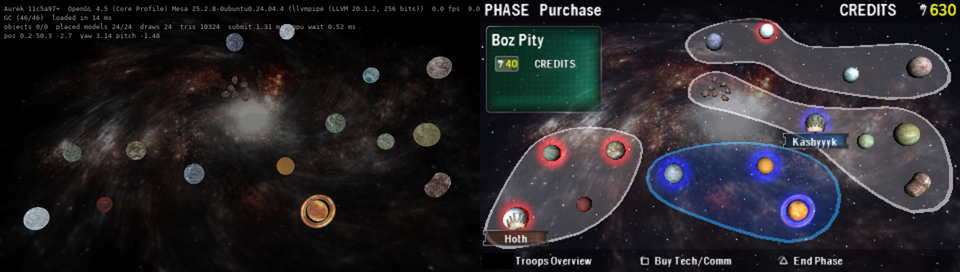
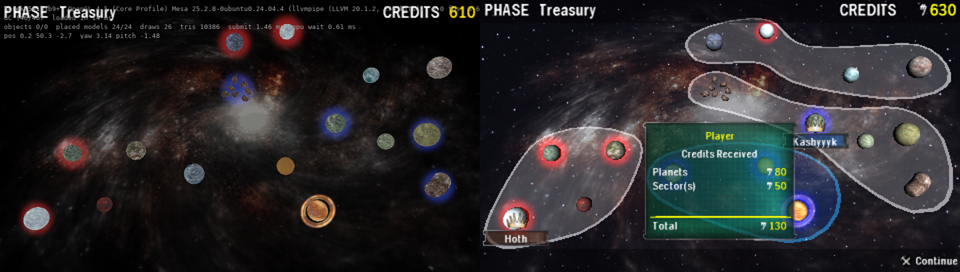
5.4: GC map overlay first slice (app/gc_screen): GC game state on the GC level, owner halos, PHASE / CREDITS header
Claude-Session: https://claude.ai/code/session_012zV5yctaL6vwZjb4yJxb74

diff --git a/engine/app/gc_screen.c b/engine/app/gc_screen.c
@@ -1,0 +1,102 @@
+/* Aurek - the Galactic Conquest map screen (see gc_screen.h; PARITY 5.4) */
+#include "app/gc_screen.h"
+#include "app/hud.h"
+#include "core/ak_settings.h"
+#include <string.h>
+#include <stdlib.h>
+#include <stdio.h>
+
+static ak_arena mem; static bool mem_ok;
+static u16 *gtext[160]; static u32 glen[160], ngtext;
+
+/* TEXT/GALACTICCONQUEST.ASR: PTXT per language - u32 table hash (0x4F008C3A), u32 n, u32 language, "GalacticConquest", then n x
+ * { u32 length with the 0, UTF-16 } (the same layout as CPNAMES) */
+static void load_text(ak_vfs *vfs)
+{
+    ak_blob b; if (ngtext || !ak_vfs_read(vfs, "PSP_GAME/USRDIR/TEXT/GALACTICCONQUEST.ASR", &mem, &b) || !ak_asura_check(&b)) return;
+    u32 pos = 8; ak_chunk c; int lang = ak_setting_int("AK_LANGUAGE", 0);
+    while (ak_asura_next(&b, &pos, &c)) {
+        if (ak_chunk_tag(&c) != AK_TAG('P', 'T', 'X', 'T') || c.size < 16 || (int)ak_rd32(c.body + 8) != lang) continue;
+        u32 n = ak_rd32(c.body + 4), p = 12; p += ((u32)strnlen((const char *)c.body + p, c.size - p) + 1 + 3) & ~3u;
+        for (u32 i = 0; i < n && i < AK_ARRAY_LEN(gtext) && p + 4 <= c.size; i++) {
+            u32 len = ak_rd32(c.body + p); p += 4; if (p + len * 2 > c.size) break;
+            gtext[i] = ak_arena_alloc(&mem, (len + 1) * 2, 2); glen[i] = len ? len - 1 : 0;
+            if (gtext[i]) for (u32 k = 0; k < len; k++) gtext[i][k] = ak_rd16(c.body + p + k * 2);
+            p += len * 2; ngtext = i + 1;
+        }
+        break;
+    }
+}
+const u16 *ak_gc_text(u32 id, u32 *len) { if (id >= ngtext || !gtext[id]) { *len = 0; return NULL; } *len = glen[id]; return gtext[id]; }
+
+bool ak_gc_screen_init(ak_gc_screen *s, ak_vfs *vfs, const ak_level *l, const ak_scene_level *sc, const ak_model_set *ms,
+                       const ak_entity_set *ents, const ak_blueprints *bp, u32 seed)
+{
+    memset(s, 0, sizeof *s);
+    if (!mem_ok) mem_ok = ak_arena_init(&mem, 256u << 10);
+    if (mem_ok) load_text(vfs);
+    ak_gc_rules_load(bp, &s->r);
+    ak_gc_new(&s->g, &s->r, ak_setting_int("AK_GC_FACTION", 4), seed);
+    f32 ast[3] = { 0, 0, 0 }; int nast = 0;
+    for (u32 i = 0; i < ents->n; i++) {
+        const ak_entity *e = &ents->e[i];
+        if (!e->placed || e->model[0] < 0) continue;
+        const char *nm = ms->models[e->model[0]].name;
+        if (!strcmp(nm, "Asteroid_02")) { for (int k = 0; k < 3; k++) ast[k] += e->pos[k]; nast++; continue; }
+        for (int p = 0; p < AK_GC_PLANETS; p++)
+            if (!strcmp(nm, ak_gc_planet_keys[p]) && !s->planet_known[p]) { memcpy(s->planet_pos[p], e->pos, 12); s->planet_known[p] = true; }
+    }
+    if (nast) { for (int k = 0; k < 3; k++) s->planet_pos[0][k] = ast[k] / (f32)nast; s->planet_known[0] = true; }   /* Alderaan */
+    s32 ti = ak_level_find_texture(l, "\\graphics\\GUI\\GC_Elements\\GC_Planet_Corona.bmp");
+    s->corona = NULL;
+    if (ti >= 0 && sc->tex && sc->tex[ti]) {          /* an opaque BMP drawn as a glow: its brightness as alpha, white to take the tint */
+        static u32 pal[256]; const ak_texture *t = &l->tex[ti];
+        for (int i = 0; i < 256; i++) { u32 c = t->palette[i], r = c & 255, g = (c >> 8) & 255, b = (c >> 16) & 255, a = r > g ? (r > b ? r : b) : (g > b ? g : b); pal[i] = 0x00FFFFFFu | (a << 24); }
+        s->corona = ak_gfx_texture_palette(sc->tex[ti], t, pal);
+    }
+    s->ready = true;
+    return true;
+}
+
+static bool project(const ak_m4 *vp, const f32 *p, f32 *x, f32 *y)
+{
+    const f32 *m = vp->m;
+    f32 cx = m[0] * p[0] + m[4] * p[1] + m[8] * p[2] + m[12], cy = m[1] * p[0] + m[5] * p[1] + m[9] * p[2] + m[13];
+    f32 cw = m[3] * p[0] + m[7] * p[1] + m[11] * p[2] + m[15];
+    if (cw <= 0) return false;
+    *x = (cx / cw * 0.5f + 0.5f) * 480.0f; *y = (0.5f - cy / cw * 0.5f) * 272.0f; return true;
+}
+
+void ak_gc_screen_draw_back(const ak_gc_screen *s, const ak_m4 *vp)
+{
+    if (!s->ready) return;
+    ak_hud_2d_begin();
+    /* owner halos: the player's (side 0) blue, the enemy's red, none on neutral planets (the original's screen) [assumed sizes] */
+    for (int p = 0; p < AK_GC_PLANETS; p++) {
+        int o = s->g.planet[p].owner; f32 x, y;
+        if (o == AK_GC_NONE || !s->planet_known[p] || !project(vp, s->planet_pos[p], &x, &y)) continue;
+        f32 r = 20.0f; u32 col = o == 0 ? 0xFF3050FFu : 0xFFFF3030u;
+        if (s->corona) ak_hud_2d_quad(s->corona, x - r, y - r, x + r, y + r, 0, 0, 1, 1, col);
+    }
+    ak_hud_2d_end();
+}
+
+void ak_gc_screen_draw(const ak_gc_screen *s, const ak_m4 *vp)
+{
+    (void)vp; if (!s->ready) return;
+    ak_hud_2d_begin();
+    /* header: "PHASE" + the phase's name (top left), "CREDITS" + the side's credits in yellow (top right) */
+    u32 n; const u16 *t;
+    if ((t = ak_gc_text(0x37, &n))) {
+        f32 w = ak_hud_2d_text(1, 4, 2, 200, 1.0f, 0xFFFFFFFFu, t, n, 0); (void)w;
+        u32 m; const u16 *ph = ak_gc_text((u32)s->phase, &m);
+        if (ph) ak_hud_2d_text(1, 60, 2, 260, 1.0f, 0xFFFFFFFFu, ph, m, 0);
+    }
+    {
+        char num[16]; u16 w16[16]; int k = snprintf(num, sizeof num, "%u", s->g.side[0].credits);
+        for (int i = 0; i < k; i++) w16[i] = (u16)num[i];
+        ak_hud_2d_text(1, 300, 2, 476, 1.0f, 0xFFFFE000u, w16, (u32)k, 2);
+        if ((t = ak_gc_text(0x35, &n))) ak_hud_2d_text(1, 200, 2, 440, 1.0f, 0xFFFFFFFFu, t, n, 2);
+    }
+    ak_hud_2d_end();
+}

diff --git a/engine/app/viewer.c b/engine/app/viewer.c
@@ -16,6 +16,7 @@
 #include "play.h"
 #include "../audio/ak_audio.h"
 #include "hud.h"
+#include "gc_screen.h"
 #include "frontend.h"
 #include "../audio/ak_speech.h"
 #include "../platform/plat.h"
@@ -30,6 +31,7 @@
 typedef struct { char path[128]; char label[64]; } level_ref;
 static level_ref levels[96];
 static int nlevels;
+static ak_gc_screen *gc_screen;                 /* the Galactic Conquest map's state and overlay (the "GC" level) */
 
 static void find_levels(ak_vfs *v, ak_arena *tmp)
 {
@@ -221,6 +223,10 @@ int main(int argc, char **argv)
             if (!ak_models_load(&level, &lvl, &models) || !ak_scene_models_init(&mscene, &models, &scene, &lvl)) AK_WARN("aurek", "models did not load");
             fe_models = &models; fe_mscene = &mscene; fe_play = &play;
             ak_entities_load(&level, &models, &lvl, &ents);
+            if (!strcmp(levels[cur].label, "GC")) {   /* the Galactic Conquest map: a new game, the player's first treasury */
+                static ak_gc_screen gcs_; ak_gc_screen_init(&gcs_, vfs, &level, &scene, &models, &ents, &bps, (u32)ak_setting_int("AK_SEED", 1));
+                gcs_.g.turn = 0; ak_gc_collect(&gcs_.g, &gcs_.r, 0); gcs_.phase = 0; gc_screen = &gcs_;
+            } else gc_screen = NULL;
             if (ak_setting_int("AK_DUMP_SMSG", 0)) {   /* tests: the level script's messages (SMSG: groups of u16 type, u16 extra, u32 target, ...) */
                 u32 pos = 8; ak_chunk c;
                 while (ak_asura_next(&level.file, &pos, &c)) {
@@ -641,6 +647,7 @@ int main(int argc, char **argv)
         /* the GC map: its Env (a grey 44-triangle shell around the galaxy) is not in the original's picture (harness, 2026-11-21:
            stars and the galaxy behind the planets) [assumed: not drawn] */
         if (strcmp(levels[cur].label, "GC")) ak_scene_level_draw(&scene, &vp, &ss);
+        else if (gc_screen) ak_gc_screen_draw_back(gc_screen, &vp);
         u32 ents_drawn = 0;
         if (show_ents && bindm) {
             ak_frustum fr = ak_frustum_from(&vp);
@@ -938,6 +945,7 @@ int main(int argc, char **argv)
 
             }
         }
+        if (gc_screen && !strcmp(levels[cur].label, "GC")) ak_gc_screen_draw(gc_screen, &vp);
         ak_gfx_end(&gs);
         {   f32 lp[3] = { cam.pos.x, cam.pos.y, cam.pos.z }; ak_audio_listener(lp, cam.yaw); }
         if (dumpf) {                                                          /* (tests: the mix, frame by frame, as a WAV file) */

diff --git a/engine/app/gc_screen.h b/engine/app/gc_screen.h
@@ -1,0 +1,30 @@
+/* Aurek - the Galactic Conquest map screen (PARITY 5.4): the GC.PSP scene with the game's overlay (08A44xxx-08A4Axxx).
+ * First slice: the GC state, the planets' places (the level's placed planet models; Alderaan = the mean of its Asteroid_02
+ * pieces), the owner halos (GC_Planet_Corona.bmp) and the header ("PHASE x" top left, "CREDITS n" top right - 08A4656C's
+ * family; text TEXT/GALACTICCONQUEST.ASR).  Sizes and colours are read off the original's screen (harness, 480 x 272) until the
+ * drawing code is traced [assumed]. */
+#ifndef AK_GC_SCREEN_H
+#define AK_GC_SCREEN_H
+#include "core/ak_core.h"
+#include "core/ak_vfs.h"
+#include "assets/asura.h"
+#include "assets/model.h"
+#include "assets/entity.h"
+#include "assets/blueprint.h"
+#include "render/ak_scene.h"
+#include "game/ak_gc.h"
+
+typedef struct {
+    bool ready;
+    ak_gc g; ak_gc_rules r;
+    f32 planet_pos[AK_GC_PLANETS][3]; bool planet_known[AK_GC_PLANETS];
+    ak_gfx_tex *corona;
+    int phase;                         /* GALACTICCONQUEST.ASR 0 Treasury, 1 Purchase, 2 Movement, 3 Reinforce */
+} ak_gc_screen;
+
+bool ak_gc_screen_init(ak_gc_screen *s, ak_vfs *vfs, const ak_level *l, const ak_scene_level *sc, const ak_model_set *ms,
+                       const ak_entity_set *ents, const ak_blueprints *bp, u32 seed);
+void ak_gc_screen_draw_back(const ak_gc_screen *s, const ak_m4 *vp);   /* behind the models: the owner halos */
+void ak_gc_screen_draw(const ak_gc_screen *s, const ak_m4 *vp);        /* 2D, after the 3D */
+const u16 *ak_gc_text(u32 id, u32 *len);                          /* TEXT/GALACTICCONQUEST.ASR entry */
+#endif

diff --git a/docs/NATIVE_ENGINE.md b/docs/NATIVE_ENGINE.md
@@ -326,6 +326,7 @@ Aurek: each spawn gets 3 more slots after all spawns are loaded (PLAY_MAX_VEH is
 | 2026-11-21 | 5.4 | **The GC map's scene found: ENVS/GC.PSP.** The galaxy and planets are placed models of that level (ENTI type 7; planet models named and hashed as the GC planet table). The viewer lists it as "GC" and the level loader accepts a level with no environment material list when its Env is a single batch (GC.PSP's 44 triangles). It does not draw right yet (white). |
 | 2026-11-21 | 5.4 | **GC map: the original captured, Aurek's scene lined up.** The harness reaches Galactic Conquest (`--route gc`, program `gc`) and keeps its screens (docs/gc_original_harness.png). GC.PSP now loads with its one-material Env (grey.tga) and the viewer leaves that shell out for the GC level; seen from the level's ENTI 41 camera the placed galaxy and planets match the original's layout (docs/gc_aurek_vs_original.png). The field of view, background and all 2D elements are next. |
 | 2026-11-21 | 5.4 / 9.1 | **GC map camera measured and used.** From the original on its GC map (harness RS_PROJ_LOG / RS_VIEW_LOG): 47 degrees high (x 1.30326, y 2.29986), eye at game (0.214, -50.31, 2.71) looking down +y tilted 5 degrees, up -z. Aurek's GC level view uses these with a black background; the planets now land where the original's do. |
+| 2026-11-21 | 5.4 | **GC map overlay, first slice (app/gc_screen).** The "GC" level now carries a Galactic Conquest game (new game + the player's first treasury) and draws the owner halos (GC_Planet_Corona.bmp as a glow, blue / red, behind the planets) and the header (PHASE Treasury, CREDITS n, from GALACTICCONQUEST.ASR). Compared with the original's screen in docs/gc_aurek_vs_original.png. |
 
 ## Known issues (cleanup pass once gameplay reaches parity)
 

diff --git a/docs/PARITY_TASKS.md b/docs/PARITY_TASKS.md
@@ -1137,6 +1137,13 @@ textures and how they are used. Section R lists only what must be in place so th
     Textures for the overlay in GC.PSP: GC_Planet_Corona.bmp (the halos), GC_Counter_Icons, GC_Tech_Elements(_02/_03),
     GC_Alliance / Empire_Commanders (+ _Greys), the PSP button icons; stars_4.tga for the star field. Open: the sector shapes
     (no texture - drawn by code), halos, the 2D panels and text, the stars.
+  - Part 13, 2026-11-21 - **GC overlay, first slice** (engine/app/gc_screen.{h,c}, drawn on the viewer's "GC" level): a new game
+    (AK_SEED, AK_GC_FACTION) and the player's first treasury; the planets' places from the level's placed planet models
+    (Alderaan = its asteroids' mean); owner halos from GC_Planet_Corona.bmp (its brightness as alpha, blue for the player, red
+    for the enemy, behind the models) [assumed: 20 px radius, colours read off the screen]; the header "PHASE <phase>" and
+    "CREDITS n" from TEXT/GALACTICCONQUEST.ASR (0x37, 0x00-0x03, 0x35). The panel primitive 08A4A868 is a switch over ~40 panel
+    kinds, each a UV rectangle of the gc_tech_elements atlases (constants 0x08AEFF14..0x08AF001C) - next to port, with the
+    treasury panel 08A4656C, the sector shapes, name tags, home badges, the button bar and the phases' input.
   - CTF traced (the rules above): flags are class 0x8019 spawners (ENTI type 25: team word after the mask block, 2 = the
     neutral flag of CTF1) that make a carried flag object (class 0x8018, 089F8238); bases are class 0x8017 (type 23: team, capture
     radius, 4-5 m).  Flag update 089F6658: picked up within 4 m (space 400) by a live soldier of another team (HCTF: any; heroes
